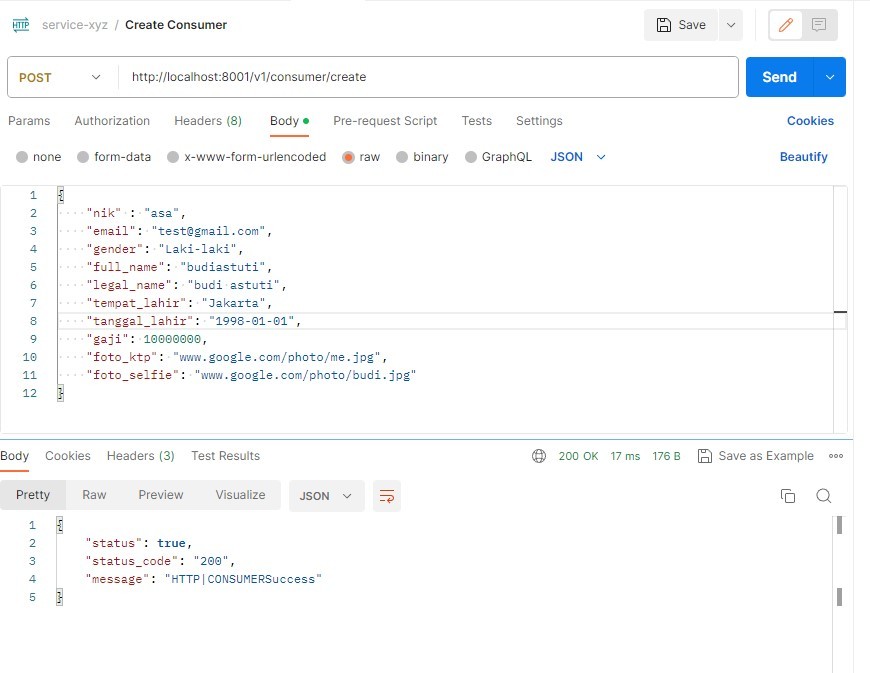
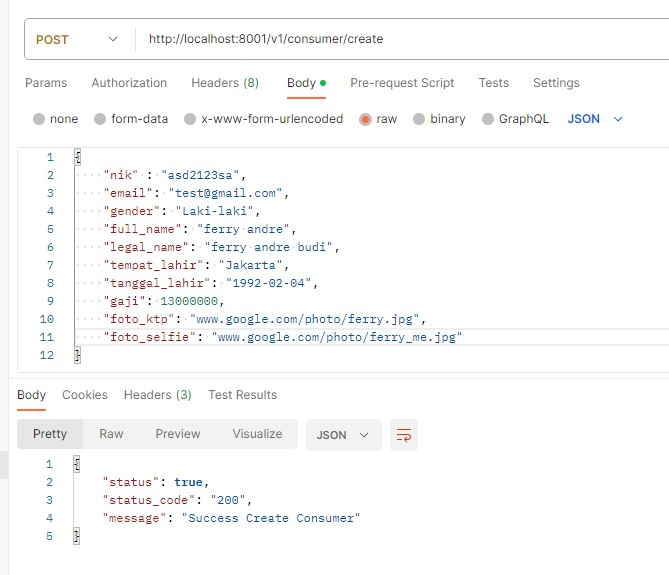
feat: implement go concurrent in CreateConsumer Usecase

diff --git a/internal/usecase/consumer/consumer_usecase.go b/internal/usecase/consumer/consumer_usecase.go
@@ -8,6 +8,7 @@ import (
 	"service-xyz/internal/entity"
 	"service-xyz/internal/repository/mysql"
 	"service-xyz/pkg/logger"
+	"sync"
 	"time"
 )
 
@@ -27,34 +28,55 @@ func NewConsumerUsecase(l *logger.Logger, cfg *config.Config, cr mysql.IConsumer
 }
 
 func (c *ConsumerUseCase) CreateConsumer(data *entity.ConsumerInfoRequest) error {
-	var Consumer entity.ConsumerInfo
+	var wg sync.WaitGroup
+	var mu sync.Mutex
+	var errCh error
+
 	request := map[string]interface{}{"request": data}
 	jsonReq, _ := json.Marshal(request)
 
-	Consumer.NIK = data.NIK
-	Consumer.Email = data.Email
-	Consumer.Gender = data.Gender
-	Consumer.FullName = data.FullName
-	Consumer.LegalName = data.LegalName
-	Consumer.TempatLahir = data.TempatLahir
-	Consumer.TanggalLahir = data.TanggalLahir
-	Consumer.Gaji = data.Gaji
-	Consumer.FotoKTP = data.FotoKTP
-	Consumer.FotoSelfie = data.FotoSelfie
-	Consumer.CreatedAt = time.Now()
-	Consumer.UpdatedAt = time.Now()
+	Consumer := entity.ConsumerInfo{
+		NIK:          data.NIK,
+		Email:        data.Email,
+		Gender:       data.Gender,
+		FullName:     data.FullName,
+		LegalName:    data.LegalName,
+		TempatLahir:  data.TempatLahir,
+		TanggalLahir: data.TanggalLahir,
+		Gaji:         data.Gaji,
+		FotoKTP:      data.FotoKTP,
+		FotoSelfie:   data.FotoSelfie,
+		CreatedAt:    time.Now(),
+		UpdatedAt:    time.Now(),
+	}
 
-	err := c.cr.InsertConsumer(&Consumer)
-	if err != nil {
-		defer c.l.CreateLog(&logger.Log{
-			Event:      commons.USECASE_CONSUMER + "|CREATE",
-			Method:     "POST",
-			StatusCode: http.StatusInternalServerError,
-			Request:    string(jsonReq),
-			Query:      "",
-			Response:   err,
-			Message:    commons.ErrUsecaseConsumer,
-		}, logger.LVL_ERROR)
+	// Gunakan Mutex sebelum memanggil InsertConsumer untuk hindari race condition
+	mu.Lock()
+	wg.Add(1)
+	go func() {
+		defer wg.Done()
+		// Memanggil InsertConsumer di dalam goroutine
+		err := c.cr.InsertConsumer(&Consumer)
+		if err != nil {
+			errCh = err
+
+			defer c.l.CreateLog(&logger.Log{
+				Event:      commons.USECASE_CONSUMER + "|CREATE",
+				Method:     "POST",
+				StatusCode: http.StatusInternalServerError,
+				Request:    string(jsonReq),
+				Query:      "",
+				Response:   err,
+				Message:    commons.ErrUsecaseConsumer,
+			}, logger.LVL_ERROR)
+		}
+	}()
+	mu.Unlock()
+
+	// Wait goroutine selesai
+	wg.Wait()
+
+	if errCh != nil {
 		return commons.ErrUsecaseConsumer
 	}
 

diff --git a/internal/controller/http/v1/consumer/consumer_http.go b/internal/controller/http/v1/consumer/consumer_http.go
@@ -23,7 +23,7 @@ func (c *ConsumerRoutes) CreateConsumer(w http.ResponseWriter, r *http.Request) 
 
 	err := c.cu.CreateConsumer(&payload)
 	if err != nil {
-		http_resp.HttpErrorResponse(w, false, http.StatusInternalServerError, "500", commons.ErrInternalServer.Error())
+		http_resp.HttpErrorResponse(w, false, http.StatusInternalServerError, "500", err.Error())
 		return
 	}
 
@@ -33,10 +33,10 @@ func (c *ConsumerRoutes) CreateConsumer(w http.ResponseWriter, r *http.Request) 
 		StatusCode: http.StatusOK,
 		Request:    payload,
 		Response:   "Success",
-		Message:    "Success create consumer",
+		Message:    commons.SUCCESS_CREATE_CONSUMER,
 	}, logger.LVL_INFO)
 
-	http_resp.HttpSuccessResponse(w, true, http.StatusOK, "200", commons.HTTP_CONSUMER+" Create Success", nil)
+	http_resp.HttpSuccessResponse(w, true, http.StatusOK, "200", commons.SUCCESS_CREATE_CONSUMER, nil)
 }
 
 func (c *ConsumerRoutes) GetConsumerById(w http.ResponseWriter, r *http.Request) {
@@ -50,7 +50,7 @@ func (c *ConsumerRoutes) GetConsumerById(w http.ResponseWriter, r *http.Request)
 			StatusCode: http.StatusBadRequest,
 			Request:    "consumer_id: " + consumerId,
 			Response:   err,
-			Message:    "Fail get consumer",
+			Message:    commons.FAIL_GET_CONSUMER,
 		}, logger.LVL_ERROR)
 		http_resp.HttpErrorResponse(w, false, http.StatusBadRequest, "400", err.Error())
 		return
@@ -64,7 +64,7 @@ func (c *ConsumerRoutes) GetConsumerById(w http.ResponseWriter, r *http.Request)
 			StatusCode: http.StatusInternalServerError,
 			Request:    "consumer_id: " + consumerId,
 			Response:   err,
-			Message:    "Fail get consumer",
+			Message:    commons.FAIL_GET_CONSUMER,
 		}, logger.LVL_ERROR)
 		http_resp.HttpErrorResponse(w, false, http.StatusInternalServerError, "500", err.Error())
 		return
@@ -76,8 +76,8 @@ func (c *ConsumerRoutes) GetConsumerById(w http.ResponseWriter, r *http.Request)
 		StatusCode: http.StatusOK,
 		Request:    consumerId,
 		Response:   "Success",
-		Message:    "Success get consumer",
+		Message:    commons.SUCCESS_GET_CONSUMER,
 	}, logger.LVL_INFO)
 
-	http_resp.HttpSuccessResponse(w, true, http.StatusOK, "200", commons.HTTP_CONSUMER+" Get Success", res)
+	http_resp.HttpSuccessResponse(w, true, http.StatusOK, "200", commons.SUCCESS_GET_CONSUMER, res)
 }

diff --git a/commons/constants.go b/commons/constants.go
@@ -4,7 +4,11 @@ import "errors"
 
 var (
 	// HTTP
-	HTTP_CONSUMER = "HTTP|CONSUMER"
+	HTTP_CONSUMER           = "HTTP|CONSUMER"
+	SUCCESS_CREATE_CONSUMER = "Success Create Consumer"
+	FAIL_CREATE_CONSUMER    = "Fail Create Consumer"
+	SUCCESS_GET_CONSUMER    = "Success Get Consumer"
+	FAIL_GET_CONSUMER       = "Fail Get Consumer"
 
 	// USECASE CONSUMER
 	USECASE_CONSUMER = "USECASE|CONSUMER"
